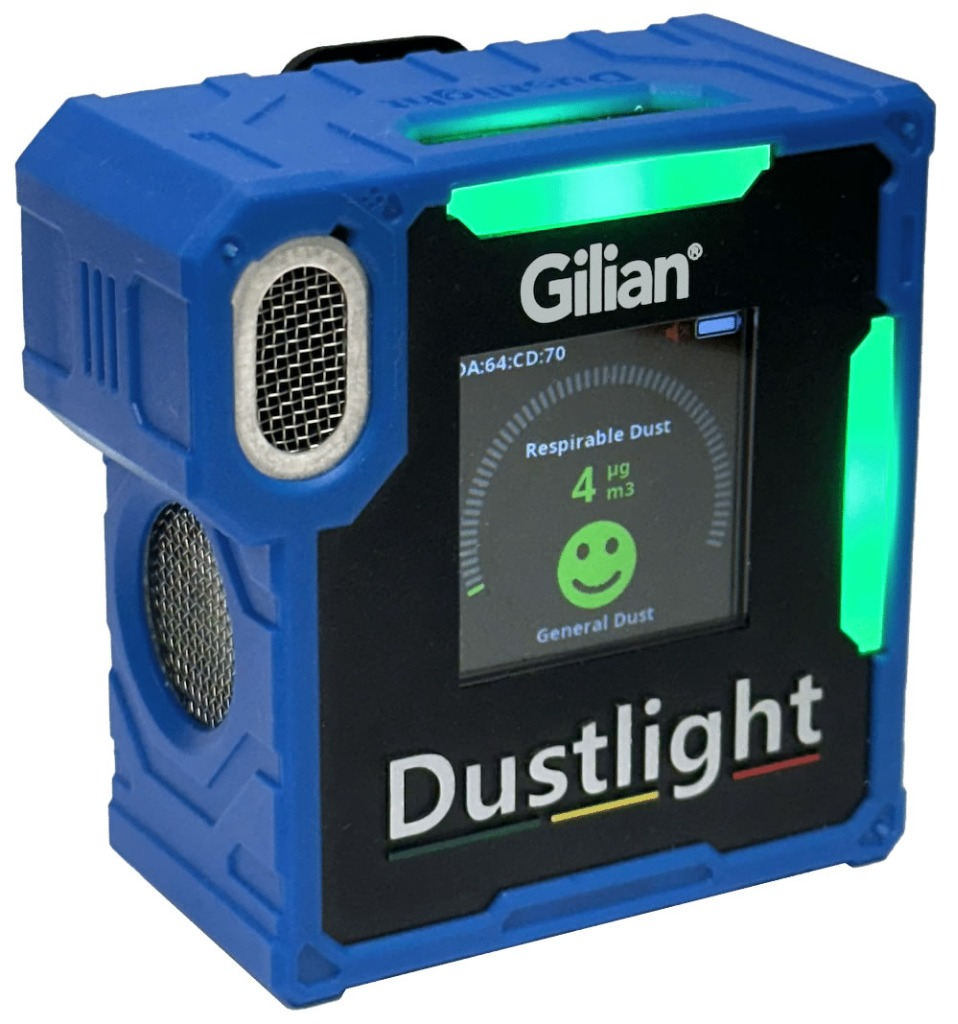
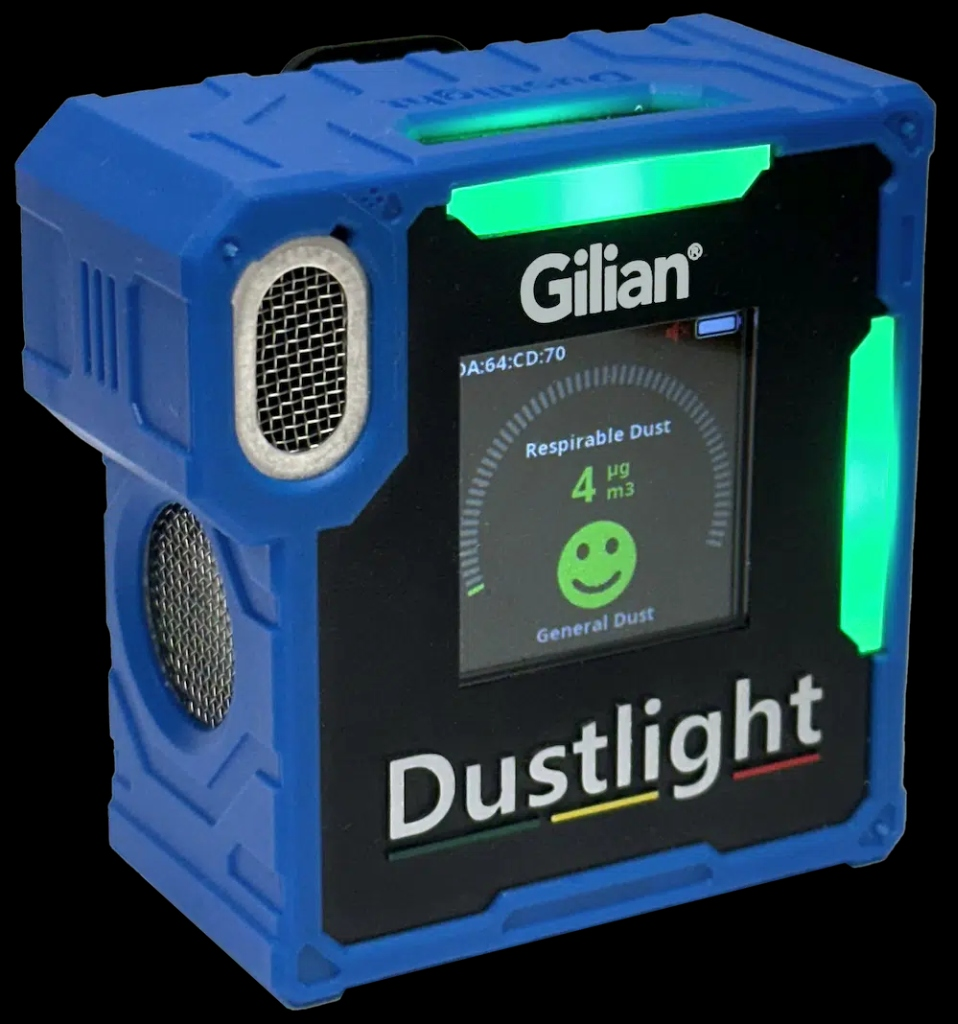
feat: replace Sensidyne spotlight on homepage with Gilian Dustlight Personal Dust Monitor

Changed region(s): [[0.0, 0.0, 1.0, 1.0]]

diff --git a/src/app/page.tsx b/src/app/page.tsx
@@ -50,7 +50,7 @@ export default function Home() {
       </section>
 
       {/* ------------------------------------------------------------- */}
-      {/* SPOTLIGHT 2: SENSIDYNE GilAir Plus (Apple Style Hero 2 - Light Contrast) */}
+      {/* SPOTLIGHT 2: SENSIDYNE Gilian Dustlight (Apple Style Hero 2 - Light Contrast) */}
       {/* ------------------------------------------------------------- */}
       <section className="relative w-full min-h-[640px] flex flex-col justify-between items-center text-center py-16 bg-slate-100 overflow-hidden border-b border-slate-200">
         <div className="absolute inset-0 bg-[radial-gradient(circle_at_center,rgba(16,130,57,0.06),transparent_60%)] pointer-events-none" />
@@ -58,21 +58,21 @@ export default function Home() {
         {/* Text Group */}
         <div className="space-y-4 max-w-2xl px-4 z-10 text-slate-900">
           <p className="text-xs font-bold uppercase tracking-widest text-brand-blue">SENSIDYNE</p>
-          <h1 className="text-5xl sm:text-7xl font-extrabold tracking-tight leading-none text-slate-900">
-            Gamme GilAir Plus
+          <h1 className="text-4xl sm:text-6xl font-extrabold tracking-tight leading-none text-slate-900">
+            Gilian Dustlight Personal Dust Monitor
           </h1>
-          <p className="text-lg sm:text-xl text-slate-600 max-w-lg mx-auto font-medium">
-            L\'échantillonnage d\'air individuel intelligent. Zéro compromis.
+          <p className="text-lg sm:text-xl text-slate-600 max-w-xl mx-auto font-medium">
+            Le premier moniteur individuel de poussières en temps réel pour la protection directe des travailleurs.
           </p>
           <div className="flex justify-center gap-6 pt-2">
             <Link
-              href="/produits/sensidyne/pompe-echantillonnage-gilair-plus"
+              href="/produits/sensidyne/moniteur-poussieres-dustlight"
               className="inline-flex items-center gap-1 text-sm font-bold text-brand-blue hover:underline group"
             >
               En savoir plus <ArrowRight className="h-4 w-4 group-hover:translate-x-1 transition-transform" />
             </Link>
             <Link
-              href="/produits/sensidyne/pompe-echantillonnage-gilair-plus"
+              href="/demande-de-prix"
               className="inline-flex items-center gap-1 text-sm font-bold text-brand-green hover:underline"
             >
               Demander un prix
@@ -80,27 +80,14 @@ export default function Home() {
           </div>
         </div>
 
-        {/* Hardware Showcase */}
-        <div className="relative mt-12 w-full max-w-md px-4 flex justify-center z-10">
-          {/* Air Pump Device Illustration */}
-          <div className="relative w-44 h-60 rounded-3xl border-4 border-slate-200 bg-white p-4 shadow-xl flex flex-col justify-between items-center">
-            {/* Screen */}
-            <div className="w-full h-20 bg-slate-950 rounded-xl p-2.5 flex flex-col justify-between">
-              <div className="flex justify-between items-center text-[7px] text-slate-600 font-bold uppercase">
-                <span>GILAIR PLUS</span>
-                <span className="text-brand-blue font-black font-mono">FLOW: OK</span>
-              </div>
-              <div className="text-xl font-bold text-white font-mono text-center my-auto flex items-end justify-center gap-0.5">
-                2.000 <span className="text-[9px] text-slate-400">LPM</span>
-              </div>
-            </div>
-            {/* Control buttons */}
-            <div className="flex gap-2 w-full justify-center mb-2">
-              <div className="h-7 w-7 rounded-full bg-slate-50 border border-slate-200 flex items-center justify-center text-[8px] font-bold text-slate-500 font-mono">&larr;</div>
-              <div className="h-7 w-7 rounded-full bg-brand-blue flex items-center justify-center text-[8px] font-bold text-white font-mono">ok</div>
-              <div className="h-7 w-7 rounded-full bg-slate-50 border border-slate-200 flex items-center justify-center text-[8px] font-bold text-slate-500 font-mono">&rarr;</div>
-            </div>
-          </div>
+        {/* Real Product Image Showcase */}
+        <div className="relative mt-8 w-full max-w-md px-4 flex justify-center z-10">
+          <div className="absolute -top-10 left-1/2 -translate-x-1/2 w-80 h-80 rounded-full bg-brand-green/5 blur-[65px] pointer-events-none" />
+          <img
+            src="/products/dustlight.jpg"
+            alt="Gilian Dustlight Personal Dust Monitor"
+            className="h-80 w-auto object-contain hover:scale-102 transition-transform duration-500"
+          />
         </div>
       </section>
 